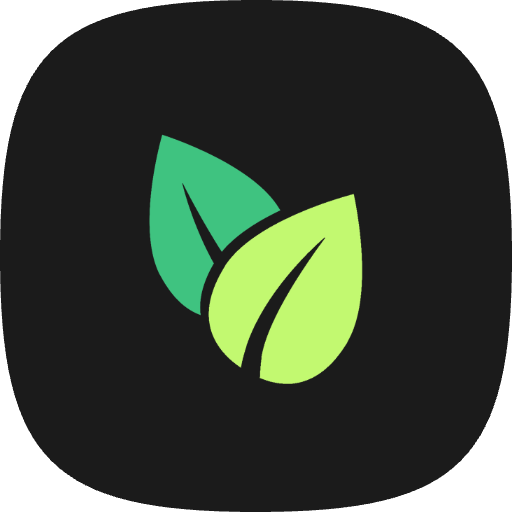
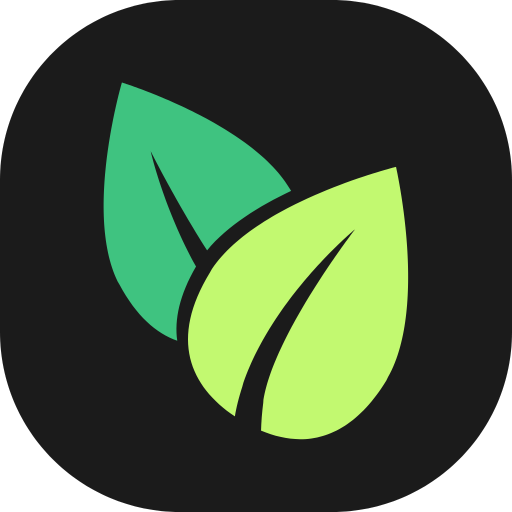
deploy: a34dbb1d52876c56edbfa7a387f92b1684553310

diff --git a/flutter_service_worker.js b/flutter_service_worker.js
@@ -15,8 +15,8 @@ const RESOURCES = {"canvaskit/skwasm.js": "f2ad9363618c5f62e813740099a80e63",
 "canvaskit/chromium/canvaskit.wasm": "64a386c87532ae52ae041d18a32a3635",
 "canvaskit/chromium/canvaskit.js": "34beda9f39eb7d992d46125ca868dc61",
 "canvaskit/chromium/canvaskit.js.symbols": "5a23598a2a8efd18ec3b60de5d28af8f",
-"index.html": "fed1900294309e4115831310410e47e3",
-"/": "fed1900294309e4115831310410e47e3",
+"index.html": "4d8de0163c3d5505aeb7030c7e81e505",
+"/": "4d8de0163c3d5505aeb7030c7e81e505",
 "assets/NOTICES": "9cc31a52ed7a23bad2210b6c037e8618",
 "assets/assets/images/logo.png": "ed06313fe533e63d7ea0197b331d5861",
 "assets/assets/fonts/JetBrainsMono/OFL.txt": "d91d325d953444833285afa3b119e0fa",
@@ -34,13 +34,13 @@ const RESOURCES = {"canvaskit/skwasm.js": "f2ad9363618c5f62e813740099a80e63",
 "assets/AssetManifest.json": "944203ba65f853bacb4442c0ed10aeec",
 "version.json": "d981406f004b470ccdc46a4d6160ac6c",
 "flutter.js": "76f08d47ff9f5715220992f993002504",
-"favicon.ico": "f161b528fa36d8a779d743d54376dc39",
 "main.dart.js": "9d8561d18e323dd67684736f19579f9a",
-"icons/Icon-maskable-512.png": "aa4d16590921791395efea91221495a8",
-"icons/Icon-192.png": "af5e11083a550b09e993696515c32ad3",
-"icons/Icon-512.png": "082fb66d22eb4da742dbd57d7e173651",
-"icons/Icon-maskable-192.png": "1412a294c06d2fcacfb78f675cc64b0a",
+"icons/Icon-maskable-512.png": "88c0484e981eb337bf043b65714ffb59",
+"icons/Icon-192.png": "1cd705ca463189a2e1d61c853e3198e0",
+"icons/Icon-512.png": "88c0484e981eb337bf043b65714ffb59",
+"icons/Icon-maskable-192.png": "1cd705ca463189a2e1d61c853e3198e0",
 "manifest.json": "606216603b0ea76ff884da22526e513c",
+"favicon.png": "30f75cae993f32996d87dedeedb05df2",
 "flutter_bootstrap.js": "62c853565d9bcc8ff421db8f2b4ad344"};
 // The application shell files that are downloaded before a service worker can
 // start.

diff --git a/index.html b/index.html
@@ -27,7 +27,7 @@
     <link rel="apple-touch-icon" href="icons/Icon-192.png" />
 
     <!-- Favicon -->
-    <link rel="icon" type="image/x-icon" href="/favicon.ico" />
+    <link rel="icon" type="image/png" href="/favicon.png" />
 
     <title>Dart AST Node Viewer</title>
     <link rel="manifest" href="manifest.json" />
